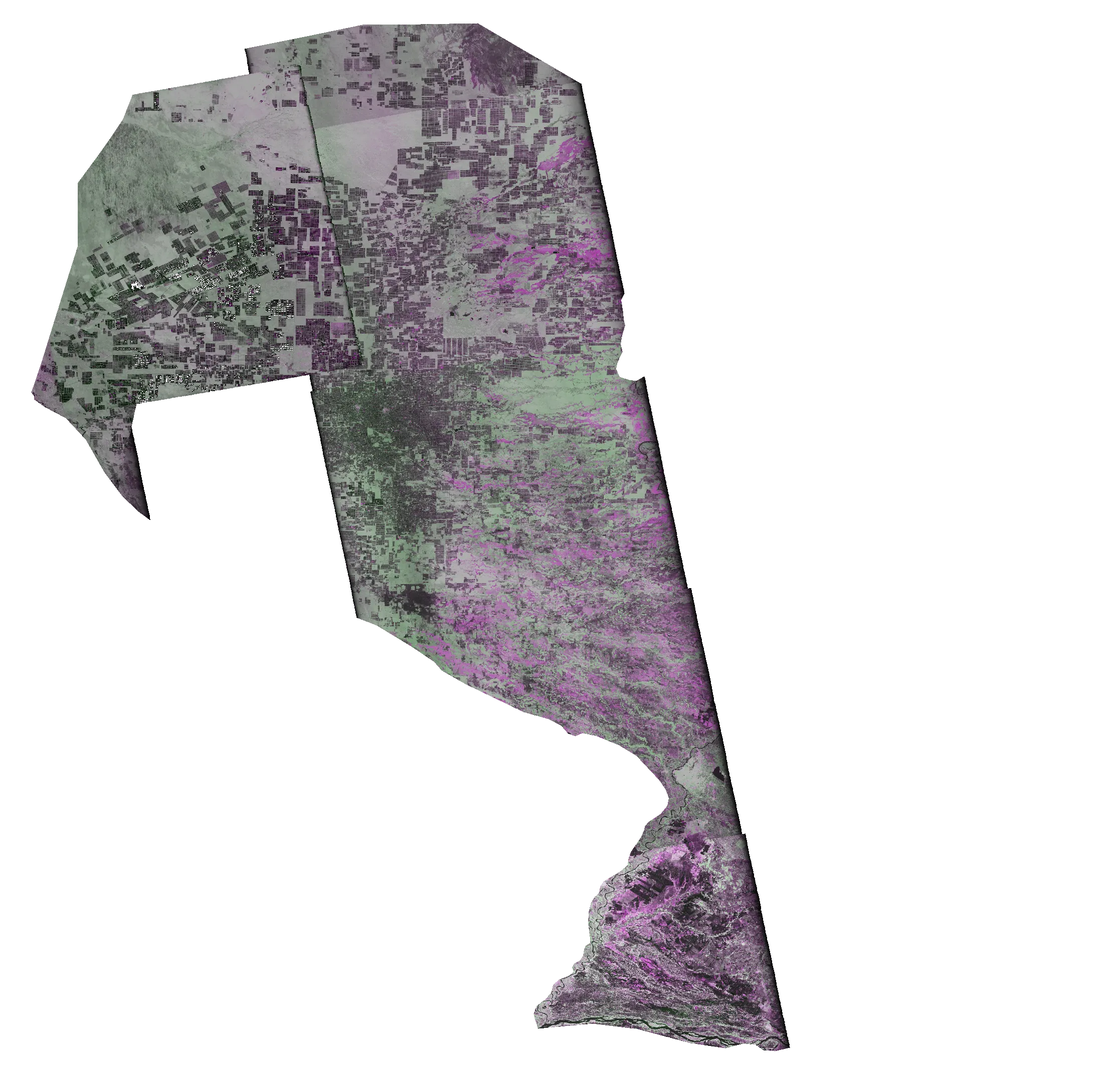
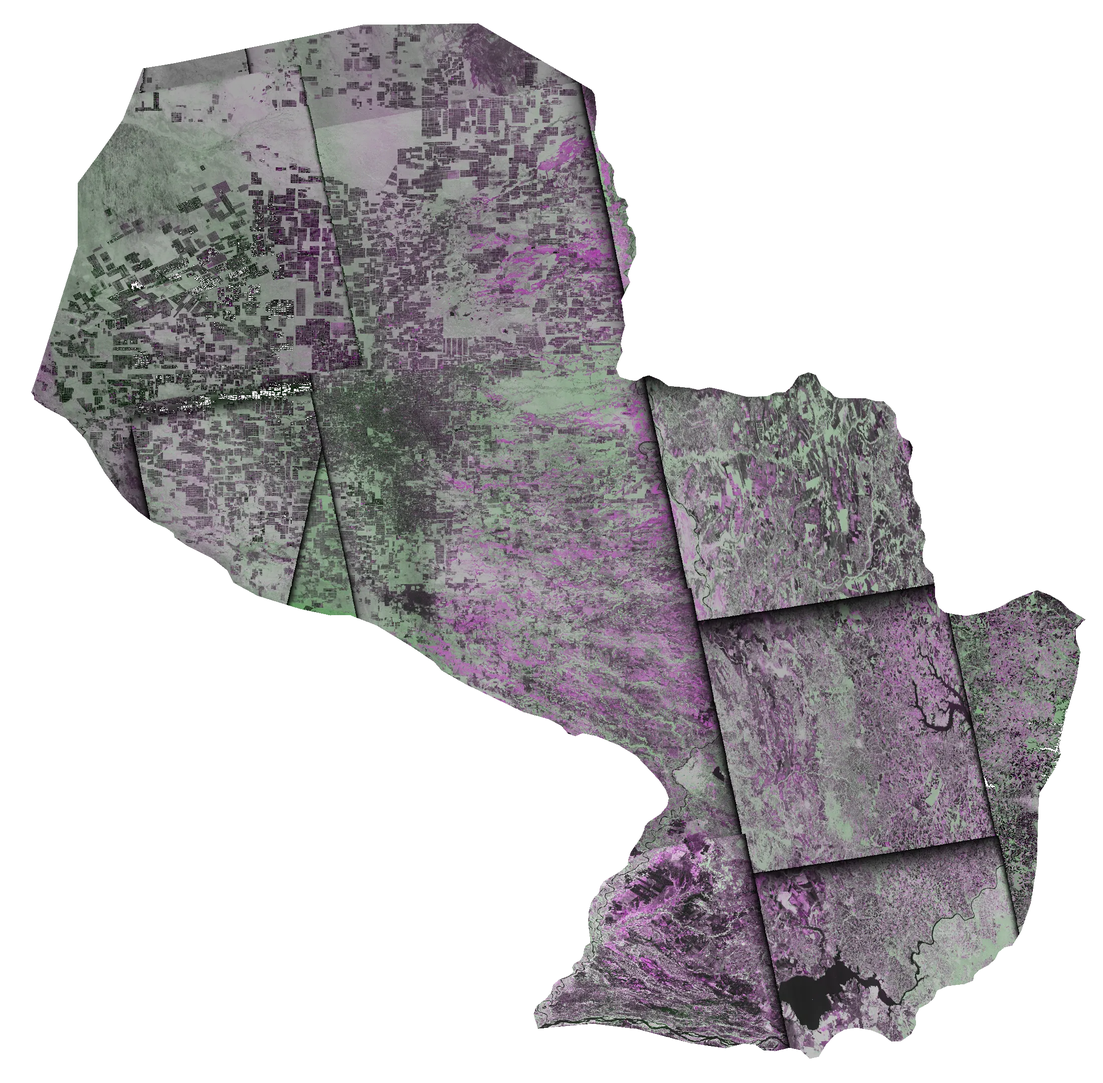
test: fill the east of the early monthly mosaics with its first NISAR pass
Until May 2026 NISAR had not imaged eastern Paraguay, so the Nov 2025 -
Jan 2026 timeline mosaics were cut in half. The frames with no pass yet
are now filled, underneath the passes of the period, with their first
pass (Jun - Jul 2026): ~100 % of the country at every date. The test
note says so.

diff --git a/web/src/map/index.ts b/web/src/map/index.ts
@@ -411,8 +411,8 @@ export async function initMapSection(ds: Dataset): Promise<void> {
             "p",
             "panel-note test-note",
             es
-              ? "PRUEBA · Todo el Paraguay con vistas rápidas de NISAR (ASF). En la línea de tiempo, el país tal como NISAR lo vio por última vez hasta esa fecha (un mosaico por mes; el este recién aparece en junio de 2026, cuando NISAR pasó por primera vez). En «Antes / después»: antes nov. 2025 – ene. 2026 (oeste y centro) y jun. – jul. 2026 (este); después 10 – 31 oct. 2026. Colores de ASF, sin calibrar; cada franja es otra pasada."
-              : "TEST · All of Paraguay in NISAR quick-looks (ASF). On the timeline, the country as NISAR last saw it up to that date (one mosaic per month; the east only appears in June 2026, NISAR's first pass there). In «Before / after»: before Nov 2025 – Jan 2026 (west and centre) and Jun – Jul 2026 (east); after 10 – 31 Oct 2026. ASF colours, not calibrated; each strip is another pass.",
+              ? "PRUEBA · Todo el Paraguay con vistas rápidas de NISAR (ASF). En la línea de tiempo, el país tal como NISAR lo vio por última vez hasta esa fecha (un mosaico por mes; hasta mayo de 2026 el este se completa con la primera pasada de NISAR ahí, de jun. – jul. 2026). En «Antes / después»: antes nov. 2025 – ene. 2026 (oeste y centro) y jun. – jul. 2026 (este); después 10 – 31 oct. 2026. Colores de ASF, sin calibrar; cada franja es otra pasada."
+              : "TEST · All of Paraguay in NISAR quick-looks (ASF). On the timeline, the country as NISAR last saw it up to that date (one mosaic per month; until May 2026 the east is filled with NISAR's first pass there, Jun – Jul 2026). In «Before / after»: before Nov 2025 – Jan 2026 (west and centre) and Jun – Jul 2026 (east); after 10 – 31 Oct 2026. ASF colours, not calibrated; each strip is another pass.",
           ),
         );
       }

diff --git a/pipeline/export/browse_mosaic_test.py b/pipeline/export/browse_mosaic_test.py
@@ -5,7 +5,8 @@
 # search API: "after" = latest 2026-09-15..10-31 per track/frame) and the downloaded
 # browse PNGs in before/ and after/. Usage: python browse_mosaic_test.py <out_dir>
 # "before" = earliest pass of each track/frame up to 2026-07-15 (NISAR imaged eastern Paraguay only from June 2026).
-# "monthly" (timeline) = for each month-end, the latest pass of each track/frame up to that day.
+# "monthly" (timeline) = for each month-end, the latest pass of each track/frame up to that day; before June 2026
+# the frames with no pass yet (the east) are filled, underneath, with their first pass (Jun - Jul 2026), flagged "fill".
 # Each browse is georeferenced by matching the 4 corners of its data swath (extreme non-black pixels)
 # to the 4 corners of the product footprint from the ASF search (affine fit; products with a residual
 # over 0.02 deg are skipped). Output: lon/lat grid over Paraguay, clipped to the country, RGBA WebP.
@@ -53,6 +54,8 @@ def fit(arr, ring):
 
 def build(kind, latest_on_top, items=None, name=None):
     items = sorted(items if items is not None else sel[kind], key=lambda x: x["date"], reverse=not latest_on_top)
+    # fills (a later first pass used where a region had no pass yet) go underneath the passes of the period
+    items = [x for x in items if x.get("fill")] + [x for x in items if not x.get("fill")]
     rgb = np.zeros((H, W, 3), np.uint8)
     have = np.zeros((H, W), bool)
     used, skipped = [], []
@@ -116,7 +119,8 @@ for cutoff, items in sorted(sel.get("monthly", {}).items()):
     name = "m_" + cutoff[:7]
     r = build("monthly", latest_on_top=True, items=items, name=name)
     ds = [p["date"] for p in r["products"]]
-    meta["timeline"].append({"until": cutoff, "file": name + ".webp", "dates": [min(ds), max(ds)] if ds else [], "coverage_of_paraguay": r["coverage_of_paraguay"], "frames": len(r["products"]), "skipped": len(r["skipped"])})
+    fills = sorted(x["date"] for x in items if x.get("fill"))
+    meta["timeline"].append({"until": cutoff, "file": name + ".webp", "dates": [min(ds), max(ds)] if ds else [], "filled_with": [fills[0], fills[-1]] if fills else [], "coverage_of_paraguay": r["coverage_of_paraguay"], "frames": len(r["products"]), "skipped": len(r["skipped"])})
     print(name, "frames", len(r["products"]), "skipped", len(r["skipped"]), "coverage", r["coverage_of_paraguay"])
 for k in ("before", "after"):
     m = meta[k]

diff --git a/docs/REFERENCES.md b/docs/REFERENCES.md
@@ -37,7 +37,7 @@ Status: `used` = already in the code or the app; `planned` = listed in the plan,
 | Resolución N.º 1/2001, Dirección General de Bienes Culturales (Ministerio de Educación y Culto) | Government of Paraguay | — | Legal declaration and administrative location of the PNCAT (district of Puerto Casado, Alto Paraguay), used only to keep the study area away | — | used (ethics) |
 | HLS v2.0 Sentinel-2 (HLSS30), 2025-11-19 and 2026-11-04 | NASA / USGS / ESA | satellite | Colour check of radar detections | doi:10.5067/HLS/HLSS30.002 | used (check) |
 | Natural Earth admin-0 countries (1:50m, v5.1.2) | Natural Earth | modeled | Outline of Paraguay (257 points, `web/src/map/paraguay.json`) to tile the whole country with the web map's hexagon grid and to paint Paraguay white on the base map | https://www.naturalearthdata.com/ · https://github.com/nvkelso/natural-earth-vector (public domain) | used |
-| NISAR L2 GCOV browse images (ASF quick-looks, `_LATLON.png` and native PNG) | NASA/JPL, ASF DAAC | satellite | **Test site only** (branch `test/nisar-paraguay-mosaic`): Paraguay-wide before / after mosaics in the radar view (before: earliest pass of each frame, 52 frames, ~100 % of the country: Nov 2025 - Jan 2026 in the west and centre, Jun - Jul 2026 in the east, where NISAR first passed in June 2026; after: 2026-10-10..10-31, 54 frames, ~100 %; plus one mosaic per month for the timeline: each frame's latest pass up to that month-end, Nov 2025 - Oct 2026, 60 % → ~100 % of the country as NISAR coverage grew); ASF colours, not calibrated | ASF search API (`dataset=NISAR&processingLevel=GCOV`), browse URLs of each product · Data courtesy of NASA/JPL | test only |
+| NISAR L2 GCOV browse images (ASF quick-looks, `_LATLON.png` and native PNG) | NASA/JPL, ASF DAAC | satellite | **Test site only** (branch `test/nisar-paraguay-mosaic`): Paraguay-wide before / after mosaics in the radar view (before: earliest pass of each frame, 52 frames, ~100 % of the country: Nov 2025 - Jan 2026 in the west and centre, Jun - Jul 2026 in the east, where NISAR first passed in June 2026; after: 2026-10-10..10-31, 54 frames, ~100 %; plus one mosaic per month for the timeline: each frame's latest pass up to that month-end, Nov 2025 - Oct 2026, ~100 % of the country; until May 2026 the east, not yet imaged, is filled with its first pass of Jun - Jul 2026); ASF colours, not calibrated | ASF search API (`dataset=NISAR&processingLevel=GCOV`), browse URLs of each product · Data courtesy of NASA/JPL | test only |
 | Landsat animation of the Chaco, 1985–2025 (SVS 15026) | NASA Goddard Space Flight Center Scientific Visualization Studio | satellite | Story cover and demo video | https://svs.gsfc.nasa.gov/15026 | planned |
 
 ## Software libraries
